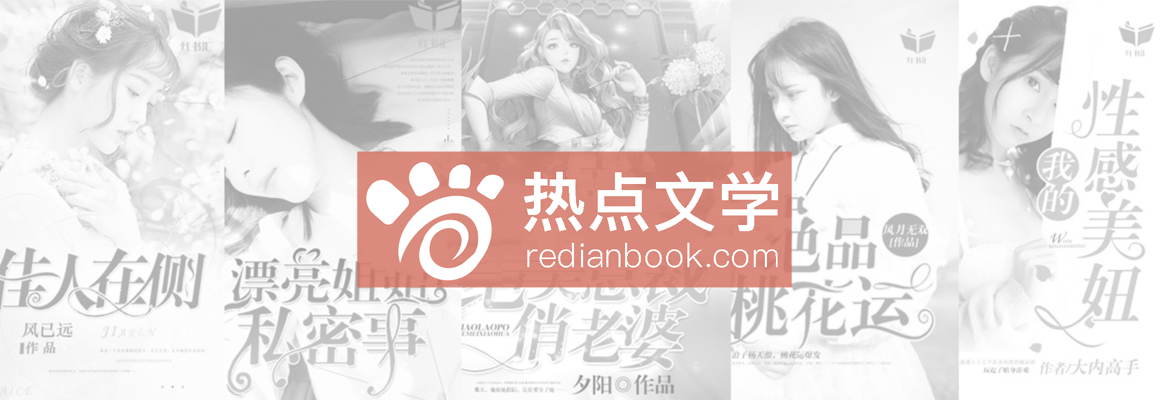
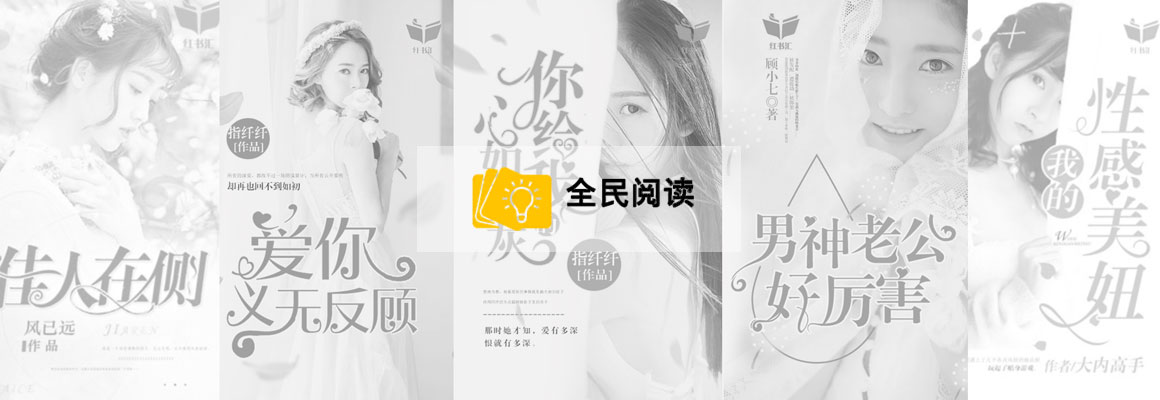
提交修改

diff --git a/qmydxs/project/public/static/css/admin.css b/qmydxs/project/public/static/css/admin.css
@@ -25,11 +25,6 @@ p{padding:0;margin:0;}
 	float: left;
 }
 
-.layui-form-item .layui-input-block .layui-btn{
-	background-color: #ffc100;
-	color:#fff;
-}
-
 /** 登陆时未注册的描述 start **/
 .book-marked{
 	display: block;
@@ -306,7 +301,7 @@ input#username{background: #0000;}
 .left-nav ul{list-style: none;padding-bottom: 40px;background: #666;}
 .left-nav ul li{line-height: 45px;text-align: left;background: #666;padding-left:20px;cursor: pointer;}
 .left-nav ul li a{color:#fff;text-decoration: none;font-size: 14px;display: block;}
-.left-nav ul li.active{background: #ffc100;}
+.left-nav ul li.active{background: #cc374f;}
 .left-nav .nav1{width:100%;height:auto;padding-left:0px;}
 .left-nav .nav1 span{padding-left:0px;display: block;}
 .left-nav .nav1 .nbul{padding-bottom: 0px;}
@@ -322,12 +317,12 @@ input#username{background: #0000;}
 /*书籍管理*/
 .right-content .content{width:1000px;height: 40px;line-height: 40px;margin:15px;overflow: inherit;}
 .right-content .content .cndh{float: left;font-weight: bold;color:#434343;}
-.right-content .content .tjsb{float: right;display: block;padding:0 20px;text-decoration: none;text-align: center;color:#fff;background: #ffc100;border-radius:5px;font-size: 14px;}
+.right-content .content .tjsb{float: right;display: block;padding:0 20px;text-decoration: none;text-align: center;color:#fff;background: #f00;border-radius:5px;font-size: 14px;}
 .right-content .tjsbnr{width: 1000px;border-top:0px solid #e6e6e6;height: auto;overflow: hidden;margin:0 auto;padding-bottom: 20px;}
 .right-content .fyxs{width: 1000px;margin:0 auto;}
 .right-content .fyxs #test1{float: right;}
 .right-content .tjsbnr .tables{width: 100%;}
-.right-content .tjsbnr .tables .nrbt{font-weight: normal;text-align: center;height: 40px;line-height: 40px;background: #c2c2c2;color: #fff;}
+.right-content .tjsbnr .tables .nrbt{font-weight: normal;text-align: center;height: 40px;line-height: 40px;background: #434343;color: #fff;}
 .right-content .tjsbnr .tables .nr{width: 100%;height: auto;overflow: hidden;}
 .right-content .tjsbnr .tables .nr .yh{width: 100%;height: auto;overflow: hidden;background: #f2f2f2;}
 .right-content .tjsbnr .tables .p1{width: 230px;float: left;border-bottom:0px solid #e6e6e6;border-right:0px solid #e6e6e6;border-left:0px solid #e6e6e6;}
@@ -381,7 +376,7 @@ input#username{background: #0000;}
 .right-content .cont .workstep .demo1{position: relative;line-height: 40px;margin:8px 0;}
 .right-content .cont .workstep .demo1 .demonr{overflow: hidden;height: 40px;line-height: 40px;}
 .right-content .cont .workstep .demo1 .demonr .label{float: left;color:#333;font-size:13px;padding-left: 47px;padding-top: 9px;font-weight:normal;}
-.right-content .cont .workstep .demo1 .demonr .btn{float: left;margin-left: 17px;background: #ffc100;color:#fff;outline: none;}
+.right-content .cont .workstep .demo1 .demonr .btn{float: left;margin-left: 17px;background: #e83451;color:#fff;outline: none;}
 .right-content .cont .workstep .byts{color: #f00;font-weight: normal;margin-left: 11px;}
 .right-content .cont .workstep .byts1{margin-top:6px;}
 .right-content .layui-form-item .shzt{margin-left:106px;}
@@ -887,7 +882,7 @@ font-size: 12px;border: none;border-radius: 5px;cursor: pointer;}
 	text-align: center;
 	/*border: 1px solid rgb(167, 167, 167);*/
 	color: white;
-	background-color: #ffc100;
+	background-color: #e83451;
 	margin:15px 0;
 	padding: 5px 20px;
 	font-size: 12px;

diff --git a/qmydxs/project/public/static/redian/css/common.css b/qmydxs/project/public/static/redian/css/common.css
@@ -132,7 +132,7 @@ i.wordnumber {
 }
 /*txt color*/
 .txt-well {
-  color: #f16b5a /*#F5513D*/;
+  color: #ffc100 /*#F5513D*/;
 }
 a.txt-well:hover,
 a.txt-well:focus {
@@ -336,7 +336,7 @@ a.txt-white {
 /*box*/
 .boxbk.box-border {
   /*border: 1px solid #E0E0E0; */
-  border-top: 4px solid #f16b5a;
+  border-top: 4px solid #ffc100;
   background: #fff;
 }
 .boxbk.box-border-left {
@@ -411,8 +411,7 @@ a.txt-white {
   width: 100%;
   height: 40px;
   overflow: hidden;
-  background: url(http://www.pinshu.com/themes/default/images/bg-sprite.gif)
-    no-repeat right -92px #f16b5a;
+  background: #ffc100;
 }
 .tit-1 h3 {
   height: 40px;
@@ -739,8 +738,9 @@ a.more {
 .header {
   height: 70px;
   width: 100%;
-  background: #f16b5a;
+  background: #fff;
   margin-bottom: 40px;
+  box-shadow: 0 1px 10px #dddddd;
 }
 .header .container {
   height: 70px;
@@ -765,7 +765,7 @@ a.more {
 }
 .header .nav li a,
 .header .nav li a:hover {
-  color: #fff;
+  color: #333;
   text-decoration: none;
 }
 .header .inputs {
@@ -780,7 +780,7 @@ a.more {
   width: 300px;
   height: 36px;
   padding-left: 15px;
-  background: #fff;
+  background: #f2f2f2;
   border-radius: 20px;
   overflow: hidden;
   margin-top: 18px;
@@ -795,14 +795,14 @@ a.more {
 .header .inputs .search .box input {
   outline: none;
   border: none;
-  background: #fff;
+  background: #f2f2f2;
   line-height: 36px;
   height: 36px;
   width: 226px;
 }
 .header .inputs .search .box button {
   float: right;
-  background: #c91903 url(../images/s.png) center no-repeat;
+  background: #ffc100 url(../images/s.png) center no-repeat;
   width: 48px;
   height: 36px;
   border: none;
@@ -838,7 +838,7 @@ a.more {
 .header .inputs .username {
   display: inline-block;
   font-size: 14px;
-  color: #fff;
+  color: #333;
   margin-left: 6px;
   vertical-align: top;
   margin-top: 5px;
@@ -850,7 +850,7 @@ a.more {
 .header .inputs a.logout{
   display: inline-block;
   font-size: 14px;
-  color: #fff;
+  color: #333;
   margin-left: 6px;
   vertical-align: top;
   margin-top: 5px;

diff --git a/qmydxs/project/public/static/redian/css/global.css b/qmydxs/project/public/static/redian/css/global.css
@@ -120,7 +120,7 @@ td,th {  padding: 0;}
 html{ height: 100%;}
 body{height:100%; color:#666; font-size:13px; font-family:"Helvetica Neue", Helvetica, Arial,\5FAE\8F6F\96C5\9ED1,'\5B8B\4F53'; background: url(http://www.pinshu.com/themes/default/images/bg.jpg) repeat left top #F7F7F7;}
 a {  color: #4A4A4A;  text-decoration: none; outline:none;}
-a:hover,a:focus {  color: #F16B5A;  text-decoration: underline;}
+a:hover,a:focus {  color: #333;  text-decoration: underline;}
 a:focus {  outline: thin dotted;  outline: 5px auto -webkit-focus-ring-color;  outline-offset: -2px;}
 a:focus,input:focus,textarea:focus{outline:0;}
 ul,li,h3,h4,dl,dt,dd,form,input{ margin: 0; padding: 0;}

diff --git a/qmydxs/project/public/static/css/style1.css b/qmydxs/project/public/static/css/style1.css
@@ -110,7 +110,7 @@ display: block;margin: 40px auto 0;background: url(../img/nhlogo2.png) 50% no-re
 .ssgn .Input1{width: 100px;}
 .ssgn .Input2{width: 200px;}
 .ssgn .layui-input{height: 35px;line-height: normal;}
-.ssgn .layui-btn{height: 35px;line-height: 35px;padding: 0 20px;font-size: 12px;}
+.ssgn .layui-btn{height: 35px;line-height: 35px;padding: 0 20px;font-size: 12px;background: #ffc100;}
 .ssgn .cont1{padding-top:0px;}
 .ssgn .zpfy{width: 100%;text-align: center;}
 /* .ssgn .zpfy .qwwz{float: left;white-space: nowrap;color: #6a4849;}

diff --git a/qmydxs/project/application/contribute/view/public/admin.html b/qmydxs/project/application/contribute/view/public/admin.html
@@ -3,7 +3,7 @@
 	<head>
 		<meta charset="UTF-8">
 		<title>{block name="title"}作家投稿平台{/block}</title>
-		<link rel="stylesheet" href="{:asset('/static/css/style.css')}" />
+		<link rel="stylesheet" href="{:asset('/static/css/admin.css')}" />
 		<link rel="stylesheet" href="{:asset('/static/css/normalize.css')}" />
 		<link rel="stylesheet" href="{:asset('/static/css/main.css')}" >
 		<link rel="stylesheet" href="{:asset('/static/css/bootstrap.min.css')}" />

diff --git a/qmydxs/project/application/contribute/view/public/user_head.html b/qmydxs/project/application/contribute/view/public/user_head.html
@@ -21,9 +21,9 @@
             作品列表
           </a>
         </li>
-        <li>
+        <!-- <li>
           <a href="{:url('HomeMaker')}">制作人阵容</a>
-        </li>
+        </li> -->
         <li>
           <a href="{:url('HomeWe')}">关于我们</a>
         </li>
